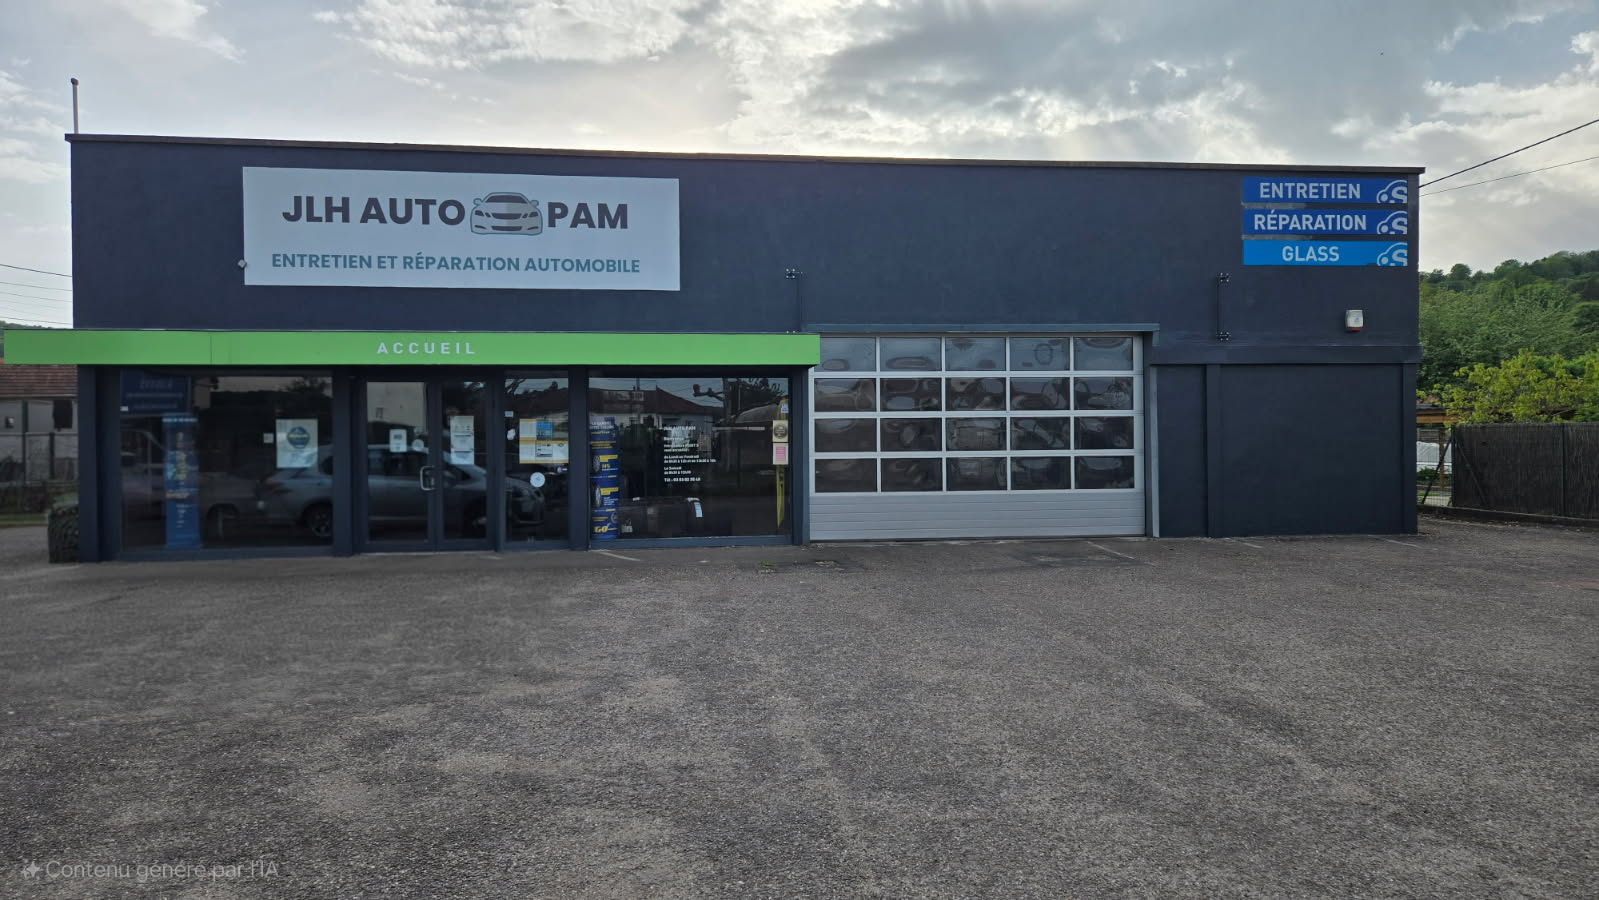
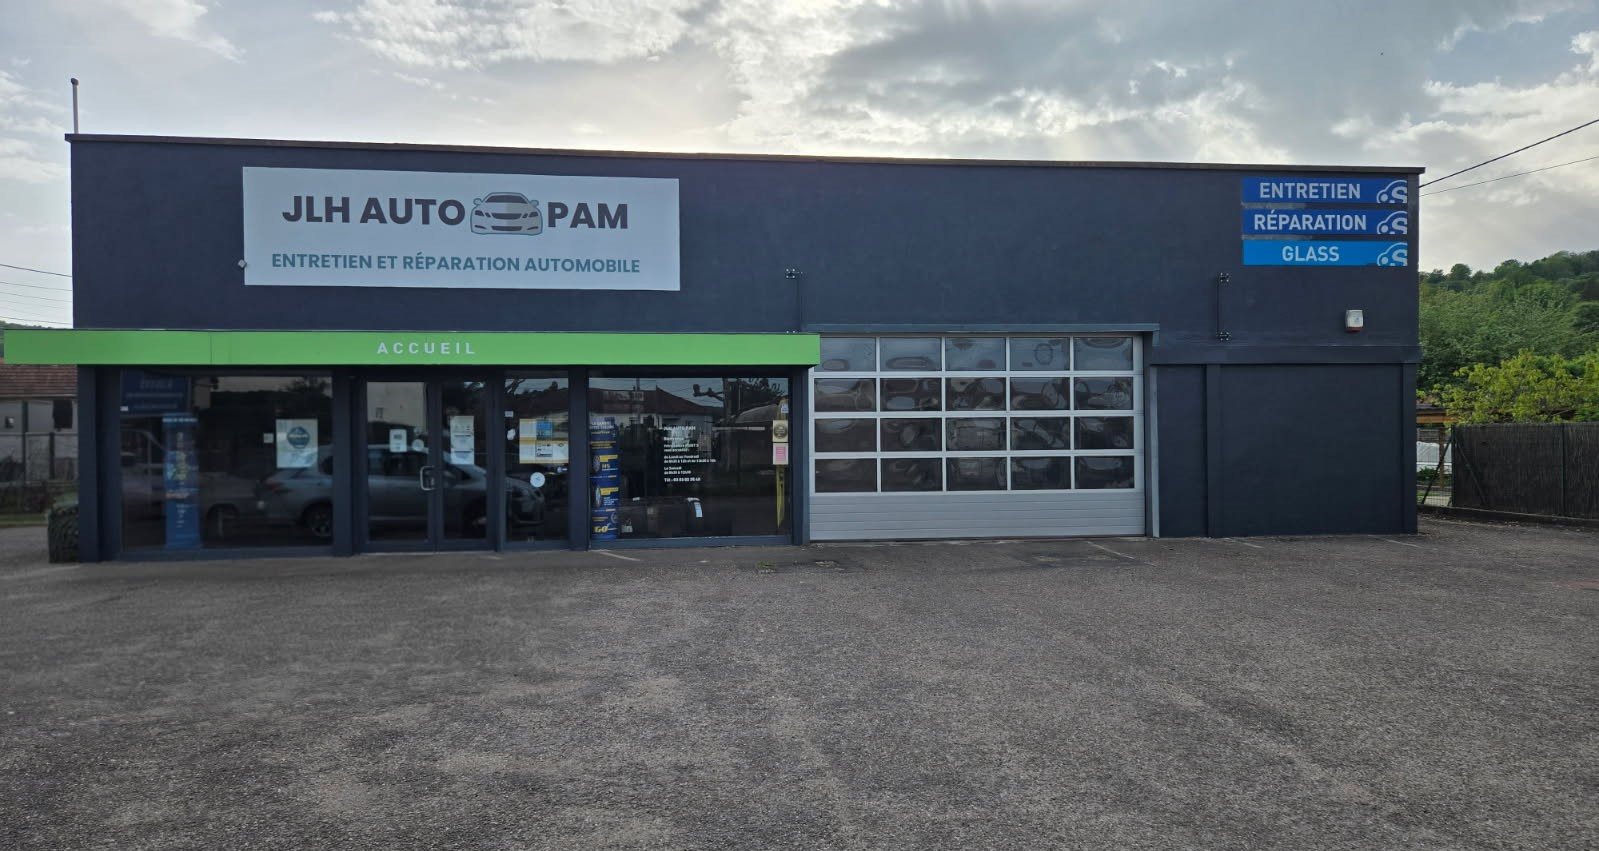
update img

Changed region(s): [[0.0, 0.0917, 1.0, 1.0], [0.9806, 0.1222, 1.0, 0.1528], [0.7355, 0.0917, 0.7661, 0.1222]]

diff --git a/src/app/shared/brands/brands.component.scss b/src/app/shared/brands/brands.component.scss
@@ -6,12 +6,8 @@
   position: relative;
 
   .container-max {
-    display: grid;
-    grid-template-columns: minmax(220px, 1fr) minmax(0, 2fr);
-    gap: clamp(1.5rem, 4vw, 3rem);
-    align-items: start;
+    display: block;
   }
-
   .title {
     font-size: clamp(1.25rem, 1.1rem + 1.5vw, 2rem);
     margin: 0 0 16px;
